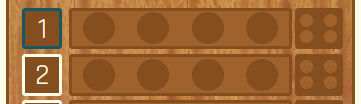
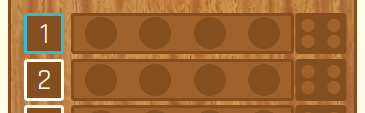
MOD images + text for tick result check [images/rules/*, rules.html]

diff --git a/rules.html b/rules.html
@@ -96,7 +96,7 @@
       </p>
       <img src="assets/images/rules/active-row.png" alt="the active row">
       <p>
-        A dark bluish border indicates the currently active row. Shown here around row 1. Each row consists of:
+        A blue border indicates the currently active row, shown here around row 1. Each row consists of:
         <ul class="text-left-list ends-rule">
           <li>A number: to indicate the score if you correctly guess on this row</li>
           <li>A row of balls: equal to the number of balls selected via the settings tab</li>
@@ -121,8 +121,8 @@
       <img src="assets/images/rules/row-full.png"
         alt="row with all colours selected and a lighter border around the numer">
       <p>
-        Once all colours have been selected, the border around the row number will become lighter. Tap (or click) the
-        number to confirm your guess and see the result
+        Once all colours have been selected, a tick box will appear. Tap (or click) the
+        tick box to confirm your guess and see the result
       </p>
       <img src="assets/images/rules/result-one-b-one-w.png"
         alt="completed row with one black result peg and one white result peg">
@@ -143,7 +143,7 @@
         Don't worry if you get to the last row on the board. A new row will be created to allow you to continue. There
         is a limit, but you would have to be going for quite a while to reach it
       </p>
-      <img src="assets/images/rules/revealed-blue.png" alt="the last colour, blue, has been revealed in the solution">
+      <img src="assets/images/rules/revealed-blue.png" alt="the question mark icon is to the right of the solution row">
       <p>
         If you are struggling, tap (or click) the question mark <i class="fas fa-question-circle"></i> icon. A prompt
         will ask if you are sure you wish to reveal a colour. If you select 'OK', the hidden colour furthest to the
@@ -151,7 +151,7 @@
         <span class="bold">You may not reveal the final colour this way</span> but you may reveal more than one, one at
         a time
       </p>
-      <img src="assets/images/rules/solution-revealed.png" alt="the solution: red, pink, pink, blue; has been revealed">
+      <img src="assets/images/rules/solution-revealed.png" alt="the skull and bones icon is to the left of the solution row">
       <p>If you really don't want to continue, or you just want to know the answer, tap (or click) the skull and bones
         <i class="fas fa-skull-crossbones"></i> icon. A prompt will appear allowing you to confirm your choice to give
         up. If you are certain, select 'OK' and the game will end. The solution will be revealed and you will be given
